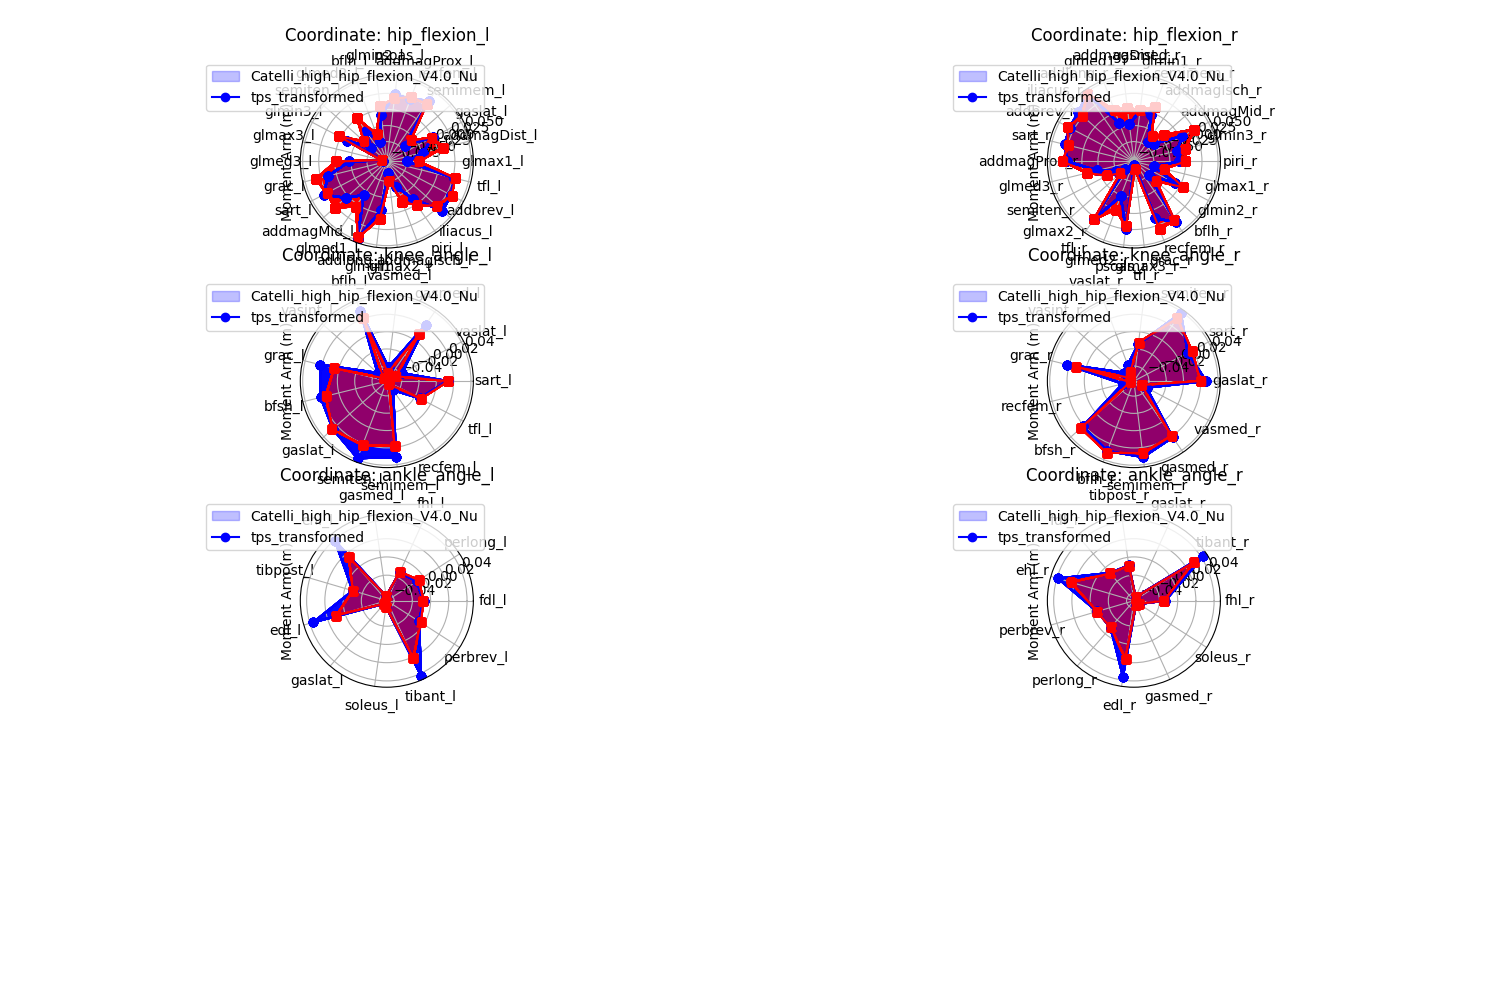
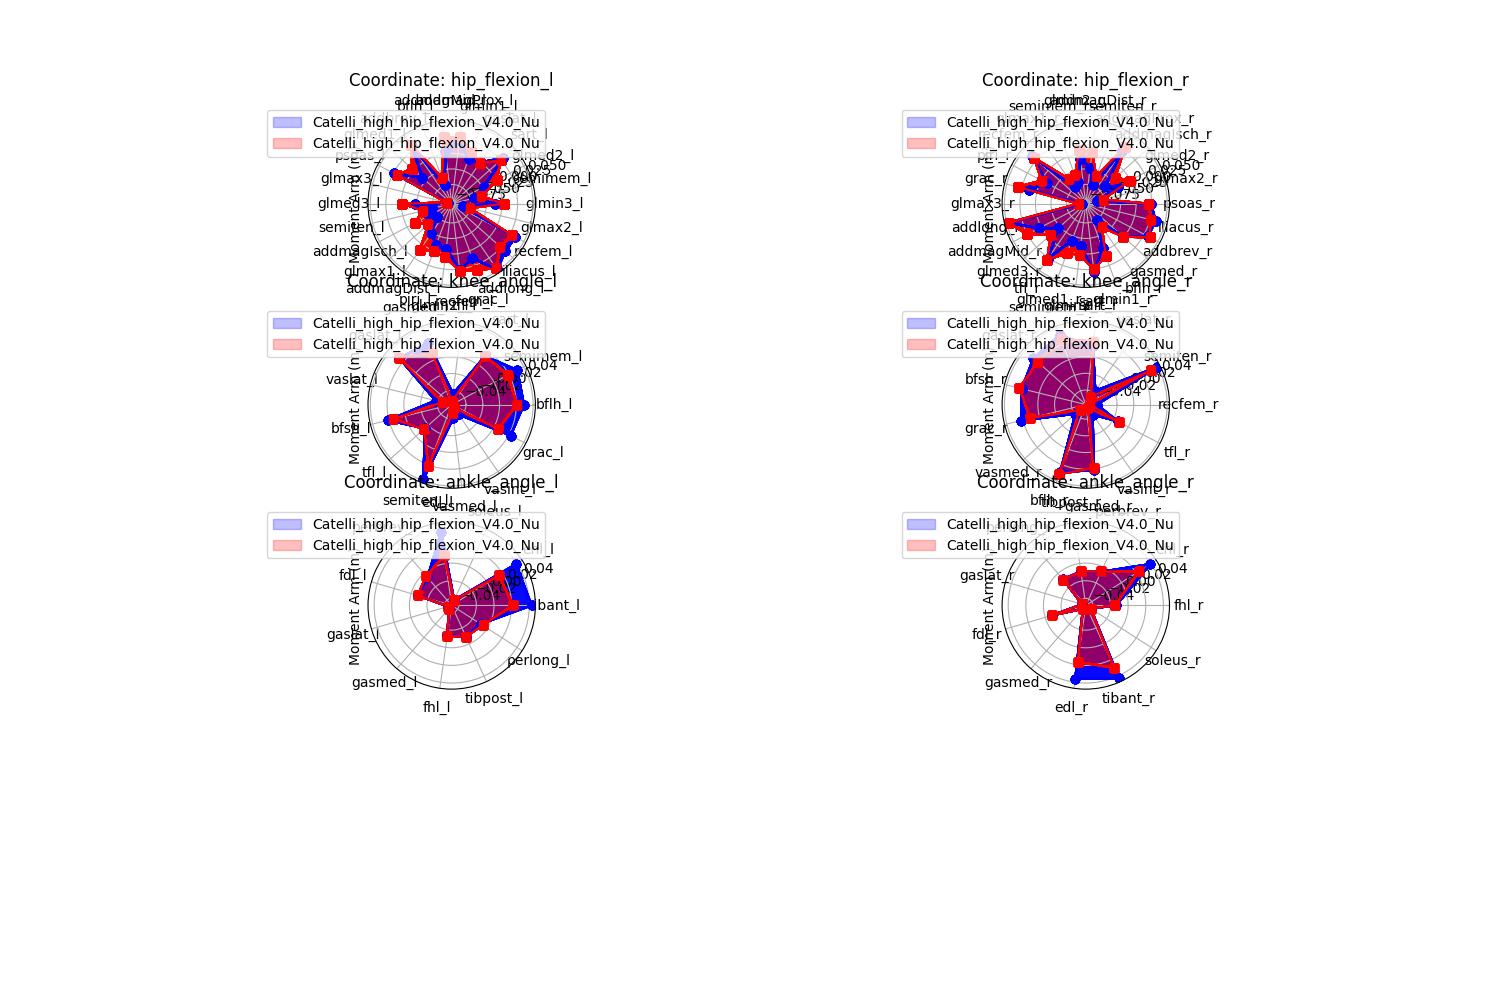
moment arms compared tps vs generic scaled models

Changed region(s): [[0.1227, 0.031, 0.3987, 0.713], [0.5827, 0.031, 0.8587, 0.713]]

diff --git a/code/moment_arm.py b/code/moment_arm.py
@@ -137,10 +137,9 @@ def create_nice_figure(n_subplots, figsize=(10, 5)):
     n_rows = int(np.ceil(n_subplots / n_cols))
 
     fig, axs = plt.subplots(n_rows, n_cols, figsize=figsize)
-    fig.tight_layout(pad=5.0)
     return fig, axs
 
-def compareModels_rest(osimModelPath1, osimModelPath2, coordinate_list):
+def compareModels_rest(osimModelPath1, osimModelPath2, coordinate_list, plotType = 'spider'):
     model1 = osim.Model(osimModelPath1)
     model2 = osim.Model(osimModelPath2)
     
@@ -153,7 +152,7 @@ def compareModels_rest(osimModelPath1, osimModelPath2, coordinate_list):
     # create subplot for each coordinate
     fig, axs = create_nice_figure(len(coordinate_list), figsize=(15, 10))
 
-    for coord_name in coordinate_list:
+    for coord_idx, coord_name in enumerate(coordinate_list):
         
         muscles1 = muscles_per_coordinate(model1, coord_name)
         muscles2 = muscles_per_coordinate(model2, coord_name)
@@ -165,13 +164,63 @@ def compareModels_rest(osimModelPath1, osimModelPath2, coordinate_list):
             moment_arm2 = model2.getMuscles().get(muscle).computeMomentArm(state2, coordSet2.get(coord_name))
             
             # 2 bar plots
-            ax = axs.flat[coordinate_list.index(coord_name)]
-            ax.bar(muscle + '_model1', moment_arm1, color='b', alpha=0.6)
-            ax.bar(muscle + '_model2', moment_arm2, color='r', alpha=0.6)
+            if plotType == 'bar':
+                ax = axs.flat[coord_idx]
+                ax.bar(muscle + '_model1', moment_arm1, color='b', alpha=0.6)
+                ax.bar(muscle + '_model2', moment_arm2, color='r', alpha=0.6)
+            elif plotType == 'line':
+                ax = axs.flat[coord_idx]
+                ax.plot([muscle + '_model1'], [moment_arm1], color='b', marker='o')
+                ax.plot([muscle + '_model2'], [moment_arm2], color='r', marker='o')
+            elif plotType == 'spider':
+                ax = axs.flat[coord_idx]
+
+                # Create lists to store all muscle data for this coordinate
+                muscle_list = list(muscles_common)
+                model1_values = []
+                model2_values = []
+                
+                # Get moment arms for all muscles
+                for muscle in muscle_list:
+                    ma1 = model1.getMuscles().get(muscle).computeMomentArm(state1, coordSet1.get(coord_name))
+                    ma2 = model2.getMuscles().get(muscle).computeMomentArm(state2, coordSet2.get(coord_name))
+                    model1_values.append(ma1)
+                    model2_values.append(ma2)
+                
+                # Create angles for each muscle
+                angles = np.linspace(0, 2 * np.pi, len(muscle_list), endpoint=False).tolist()
+                
+                # Close the plot by adding first values at the end
+                model1_values += model1_values[:1]
+                model2_values += model2_values[:1]
+                angles += angles[:1]
+                
+                # Create polar subplot
+                ax = plt.subplot(len(coordinate_list)//2 + 1, 2, coord_idx + 1, polar=True)
+                
+                # Plot both models as separate rings
+                ax.fill(angles, model1_values, color='b', alpha=0.25, label=model1.getName())
+                ax.plot(angles, model1_values, color='b', marker='o')
+                
+                ax.fill(angles, model2_values, color='r', alpha=0.25, label=model2.getName())
+                ax.plot(angles, model2_values, color='r', marker='s')
+                
+                # Set labels
+                ax.set_xticks(angles[:-1])
+                ax.set_xticklabels(muscle_list)
 
         ax.set_title(f'Coordinate: {coord_name}')
         ax.set_ylabel('Moment Arm (m)')
-        ax.legend([model1.getName(), model2.getName()])
+        
+        # legend only 2 entries one for red and one for blue (1st and 3rd entry)
+        handles, labels = ax.get_legend_handles_labels()
+        
+        # find first red handle
+        blue_handle = next((h for h, l in zip(handles, labels) if l == model1.getName()), None)
+        red_handle = next((h for h, l in zip(handles, labels) if l == model2.getName()), None)
+        ax.legend([blue_handle, red_handle], [labels[0], labels[2]], loc='upper right', bbox_to_anchor=(1.1, 1.1))
+
+
         print(f'Coordinate: {coord_name}')
         print(f'Model 1 has {len(muscles1)} muscles crossing: {muscles1}')
         print(f'Model 2 has {len(muscles2)} muscles crossing: {muscles2}')
